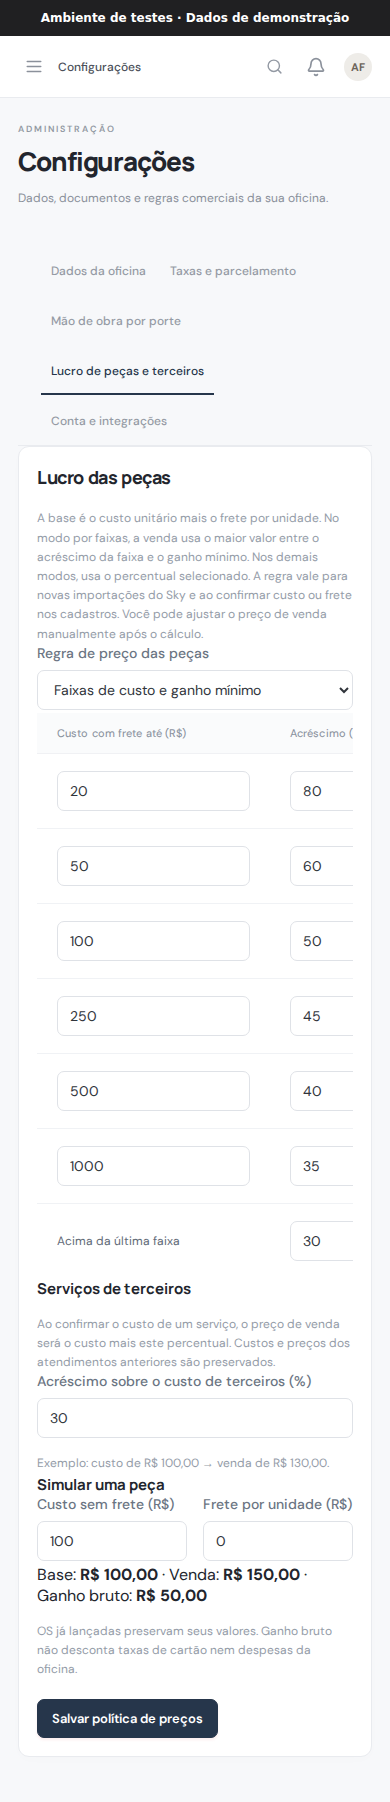
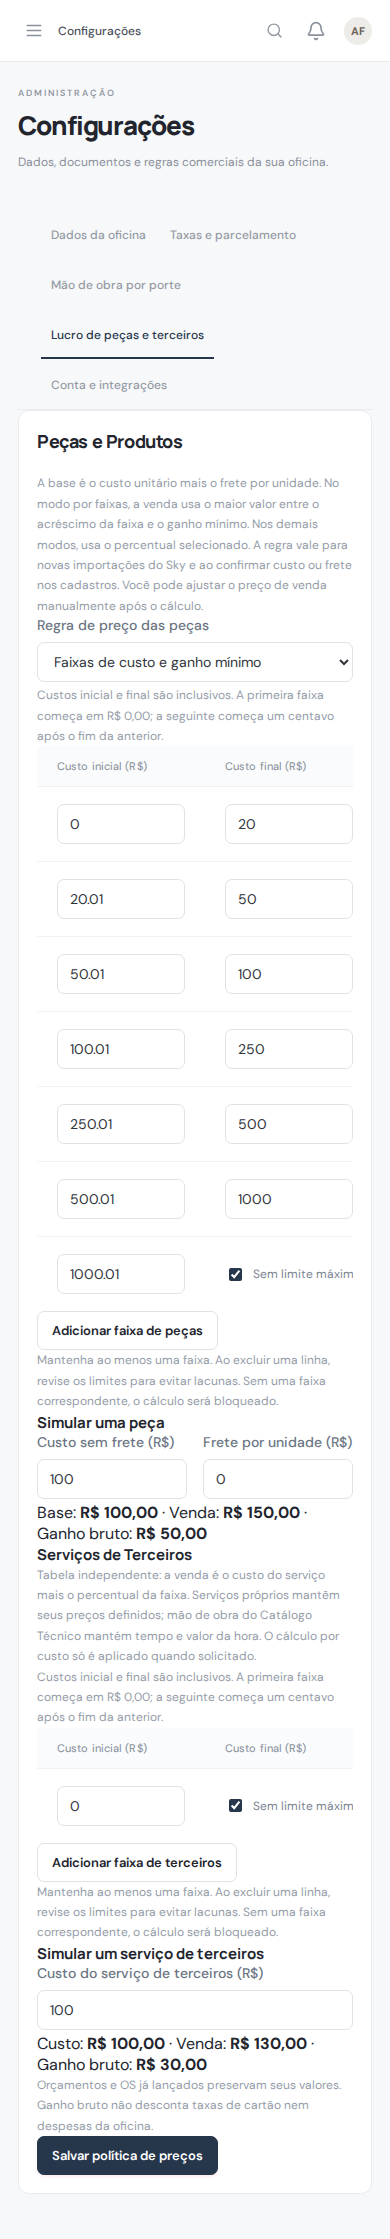
test(ops-003): preservar snapshots e atualizar capturas reais desktop/mobile

diff --git a/tests/repairCatalog.test.ts b/tests/repairCatalog.test.ts
@@ -799,3 +799,24 @@ test("CAD-005: associação manual independente da FIPE é preservada e ausênci
     assert.equal(f.db.prepare("SELECT service_model_id FROM vehicles WHERE plate='CAD0A05'").get()?.service_model_id, "");
   } finally { f.db.close(); }
 });
+
+
+
+test('OPS-003: novo terceiro usa a faixa vigente e snapshot mantém taxa após mudança da tabela',async()=>{
+ const f=fixture();
+ try {
+  const {savePartsPricing}=await import('../server/services/partsPricing');
+  const service_rules=[{from:0,up_to:10000,markup_bps:5000,minimum_profit:0},{from:10001,up_to:null,markup_bps:1000,minimum_profit:0}];
+  await savePartsPricing(f.db,ctx,{service_rules});
+  const selection={repair_service_id:f.service,repair_model_id:f.model,service_execution:'outsourced' as const,service_cost:10000};
+  const first=await resolveService(f.db,ctx,selection);
+  assert.equal(first.price,15000);
+  assert.equal(JSON.parse(first.service_snapshot).markup_bps,5000);
+  await savePartsPricing(f.db,ctx,{service_rules:[{from:0,up_to:null,markup_bps:9000,minimum_profit:0}]});
+  const preserved=await resolveService(f.db,ctx,selection,{service_snapshot:first.service_snapshot});
+  assert.equal(preserved.price,15000);
+  assert.equal(JSON.parse(preserved.service_snapshot).markup_bps,5000);
+  assert.equal((await resolveService(f.db,ctx,selection)).price,19000);
+  assert.equal((await resolveService(f.db,ctx,{repair_service_id:f.service,repair_model_id:f.model})).price,12000);
+ }finally{f.db.close();}
+});

diff --git a/server/services/repairCatalog.ts b/server/services/repairCatalog.ts
@@ -790,7 +790,7 @@ export async function resolveService(
   if (!existing) {
     snapshot.porte_name = snapshot.classification_name || snapshot.commercial_category_name || category?.name || "";
     rate = await commercialRate(db, ctx, categoryId);
-
+    markup = (await getPartsPricing(db, ctx.tenantId)).service_markup_bps ?? 3000;
   } else if (categoryChanged) {
     rate = await commercialRate(db, ctx, categoryId);
   }

diff --git a/docs/mapeamento-visual/CHECKLIST.md b/docs/mapeamento-visual/CHECKLIST.md
@@ -38,7 +38,7 @@ Estados: capturada, pendente, bloqueada e não aplicável.
 | config-dados-oficina | Configurações da oficina | Dados da Oficina Fictícia A — Identificação, endereço efetivo, navegação por seções e prévia de documento. | [`capturas/14-configuracoes/dados-oficina-a.png`](./capturas/14-configuracoes/dados-oficina-a.png) | capturada | 2026-11-01 | 56b226764ee6420a52bdff3a41bd459113618460 | — |
 | config-geral-taxas | Configurações da oficina | Taxas e parcelamento — Máquinas independentes, padrão da oficina e juros de parcelamento. | [`capturas/14-configuracoes/geral-e-taxas.png`](./capturas/14-configuracoes/geral-e-taxas.png) | capturada | 2026-11-01 | 26770cc4da2ccbf9de3620882b0a87066fdce927 | — |
 | config-mao-obra | Configurações da oficina | Mão de obra por porte — Valores de referência sem alteração. | [`capturas/14-configuracoes/mao-de-obra.png`](./capturas/14-configuracoes/mao-de-obra.png) | capturada | 2026-11-01 | 56b226764ee6420a52bdff3a41bd459113618460 | — |
-| config-lucro-pecas | Configurações da oficina | Lucro de peças e terceiros — Modos de precificação, regras de terceiros e simulador compartilhado. | [`capturas/14-configuracoes/lucro-pecas-terceiros.png`](./capturas/14-configuracoes/lucro-pecas-terceiros.png) | capturada | 2026-11-01 | 56b226764ee6420a52bdff3a41bd459113618460 | — |
+| config-lucro-pecas | Configurações da oficina | Lucro de peças e terceiros — Tabelas independentes com inclusão, edição, exclusão, limites inclusivos e simuladores de peças e terceiros. | [`capturas/14-configuracoes/lucro-pecas-terceiros.png`](./capturas/14-configuracoes/lucro-pecas-terceiros.png) | capturada | 2026-11-01 | f5768888f02977880ff9e976fa5fad6670796efd | — |
 | login-painel-central | Painel Administrativo Central | Login do Painel Administrativo Central — Formulário vazio; nenhuma credencial ou código MFA aparece na captura. | [`capturas/17-painel-admin-central/login-admin-central.png`](./capturas/17-painel-admin-central/login-admin-central.png) | capturada | 2026-10-22 | não registrado | Captura real com dados fictícios feita em 22/10/2026. O commit de origem não foi registrado; recaptura Playwright e atualização do commit estão pendentes. |
 | login-oficina-desktop | Login e acesso | Login da oficina — Tela inicial de autenticação, sem usuário ou senha preenchidos. | `capturas/01-login-acesso/login-oficina-desktop.png` (previsto) | pendente | — | não registrado | Variante desktop ainda não foi gerada. Execute a captura Playwright em ambiente local de teste. |
 | inicio-oficina-a-desktop | Dashboard | Início da Oficina Fictícia A — Menu e atalhos da conta de demonstração. | `capturas/02-dashboard/inicio-oficina-desktop.png` (previsto) | pendente | — | não registrado | Variante desktop ainda não foi gerada. Execute a captura Playwright em ambiente local de teste. |
@@ -74,7 +74,7 @@ Estados: capturada, pendente, bloqueada e não aplicável.
 | config-dados-oficina-desktop | Configurações da oficina | Dados da Oficina Fictícia A — Identificação, endereço efetivo, navegação por seções e prévia de documento. | [`capturas/14-configuracoes/dados-oficina-a-desktop.png`](./capturas/14-configuracoes/dados-oficina-a-desktop.png) | capturada | 2026-11-01 | 56b226764ee6420a52bdff3a41bd459113618460 | — |
 | config-geral-taxas-desktop | Configurações da oficina | Taxas e parcelamento — Máquinas independentes, padrão da oficina e juros de parcelamento. | [`capturas/14-configuracoes/geral-e-taxas-desktop.png`](./capturas/14-configuracoes/geral-e-taxas-desktop.png) | capturada | 2026-11-01 | 26770cc4da2ccbf9de3620882b0a87066fdce927 | — |
 | config-mao-obra-desktop | Configurações da oficina | Mão de obra por porte — Valores de referência sem alteração. | [`capturas/14-configuracoes/mao-de-obra-desktop.png`](./capturas/14-configuracoes/mao-de-obra-desktop.png) | capturada | 2026-11-01 | 56b226764ee6420a52bdff3a41bd459113618460 | — |
-| config-lucro-pecas-desktop | Configurações da oficina | Lucro de peças e terceiros — Modos de precificação, regras de terceiros e simulador compartilhado. | [`capturas/14-configuracoes/lucro-pecas-terceiros-desktop.png`](./capturas/14-configuracoes/lucro-pecas-terceiros-desktop.png) | capturada | 2026-11-01 | 56b226764ee6420a52bdff3a41bd459113618460 | — |
+| config-lucro-pecas-desktop | Configurações da oficina | Lucro de peças e terceiros — Tabelas independentes com inclusão, edição, exclusão, limites inclusivos e simuladores de peças e terceiros. | [`capturas/14-configuracoes/lucro-pecas-terceiros-desktop.png`](./capturas/14-configuracoes/lucro-pecas-terceiros-desktop.png) | capturada | 2026-11-01 | f5768888f02977880ff9e976fa5fad6670796efd | — |
 | cliente-novo | Clientes | Cadastro de cliente — Abrir, preencher e validar o formulário de cadastro com dados fictícios. | — | pendente | — | não registrado | A interação ainda não possui arquivo PNG correspondente; executar em navegador e dados de teste isolados. |
 | cliente-edicao | Clientes | Edição de cliente — Abrir e salvar alterações em cadastro de teste isolado. | — | pendente | — | não registrado | A interação ainda não possui arquivo PNG correspondente; executar em navegador e dados de teste isolados. |
 | cliente-pesquisa-filtro | Clientes | Pesquisa e filtro de clientes — Registrar pesquisa, filtro e ausência de resultados. | — | pendente | — | não registrado | A interação ainda não possui arquivo PNG correspondente; executar em navegador e dados de teste isolados. |

diff --git a/docs/mapeamento-visual/INDEX.md b/docs/mapeamento-visual/INDEX.md
@@ -512,11 +512,11 @@ Estado: capturada · mobile · captura 2026-11-01 · commit de origem: 56b226764
 
 ### Lucro de peças e terceiros
 
-Modos de precificação, regras de terceiros e simulador compartilhado.
+Tabelas independentes com inclusão, edição, exclusão, limites inclusivos e simuladores de peças e terceiros.
 
 [![Lucro de peças e terceiros](./capturas/14-configuracoes/lucro-pecas-terceiros.png)](./capturas/14-configuracoes/lucro-pecas-terceiros.png)
 
-Estado: capturada · mobile · captura 2026-11-01 · commit de origem: 56b226764ee6420a52bdff3a41bd459113618460 · [arquivo completo](./capturas/14-configuracoes/lucro-pecas-terceiros.png)
+Estado: capturada · mobile · captura 2026-11-01 · commit de origem: f5768888f02977880ff9e976fa5fad6670796efd · [arquivo completo](./capturas/14-configuracoes/lucro-pecas-terceiros.png)
 
 ### Dados da Oficina Fictícia A
 
@@ -544,11 +544,11 @@ Estado: capturada · desktop · captura 2026-11-01 · commit de origem: 56b22676
 
 ### Lucro de peças e terceiros
 
-Modos de precificação, regras de terceiros e simulador compartilhado.
+Tabelas independentes com inclusão, edição, exclusão, limites inclusivos e simuladores de peças e terceiros.
 
 [![Lucro de peças e terceiros](./capturas/14-configuracoes/lucro-pecas-terceiros-desktop.png)](./capturas/14-configuracoes/lucro-pecas-terceiros-desktop.png)
 
-Estado: capturada · desktop · captura 2026-11-01 · commit de origem: 56b226764ee6420a52bdff3a41bd459113618460 · [arquivo completo](./capturas/14-configuracoes/lucro-pecas-terceiros-desktop.png)
+Estado: capturada · desktop · captura 2026-11-01 · commit de origem: f5768888f02977880ff9e976fa5fad6670796efd · [arquivo completo](./capturas/14-configuracoes/lucro-pecas-terceiros-desktop.png)
 
 ### Conta e integrações
 
